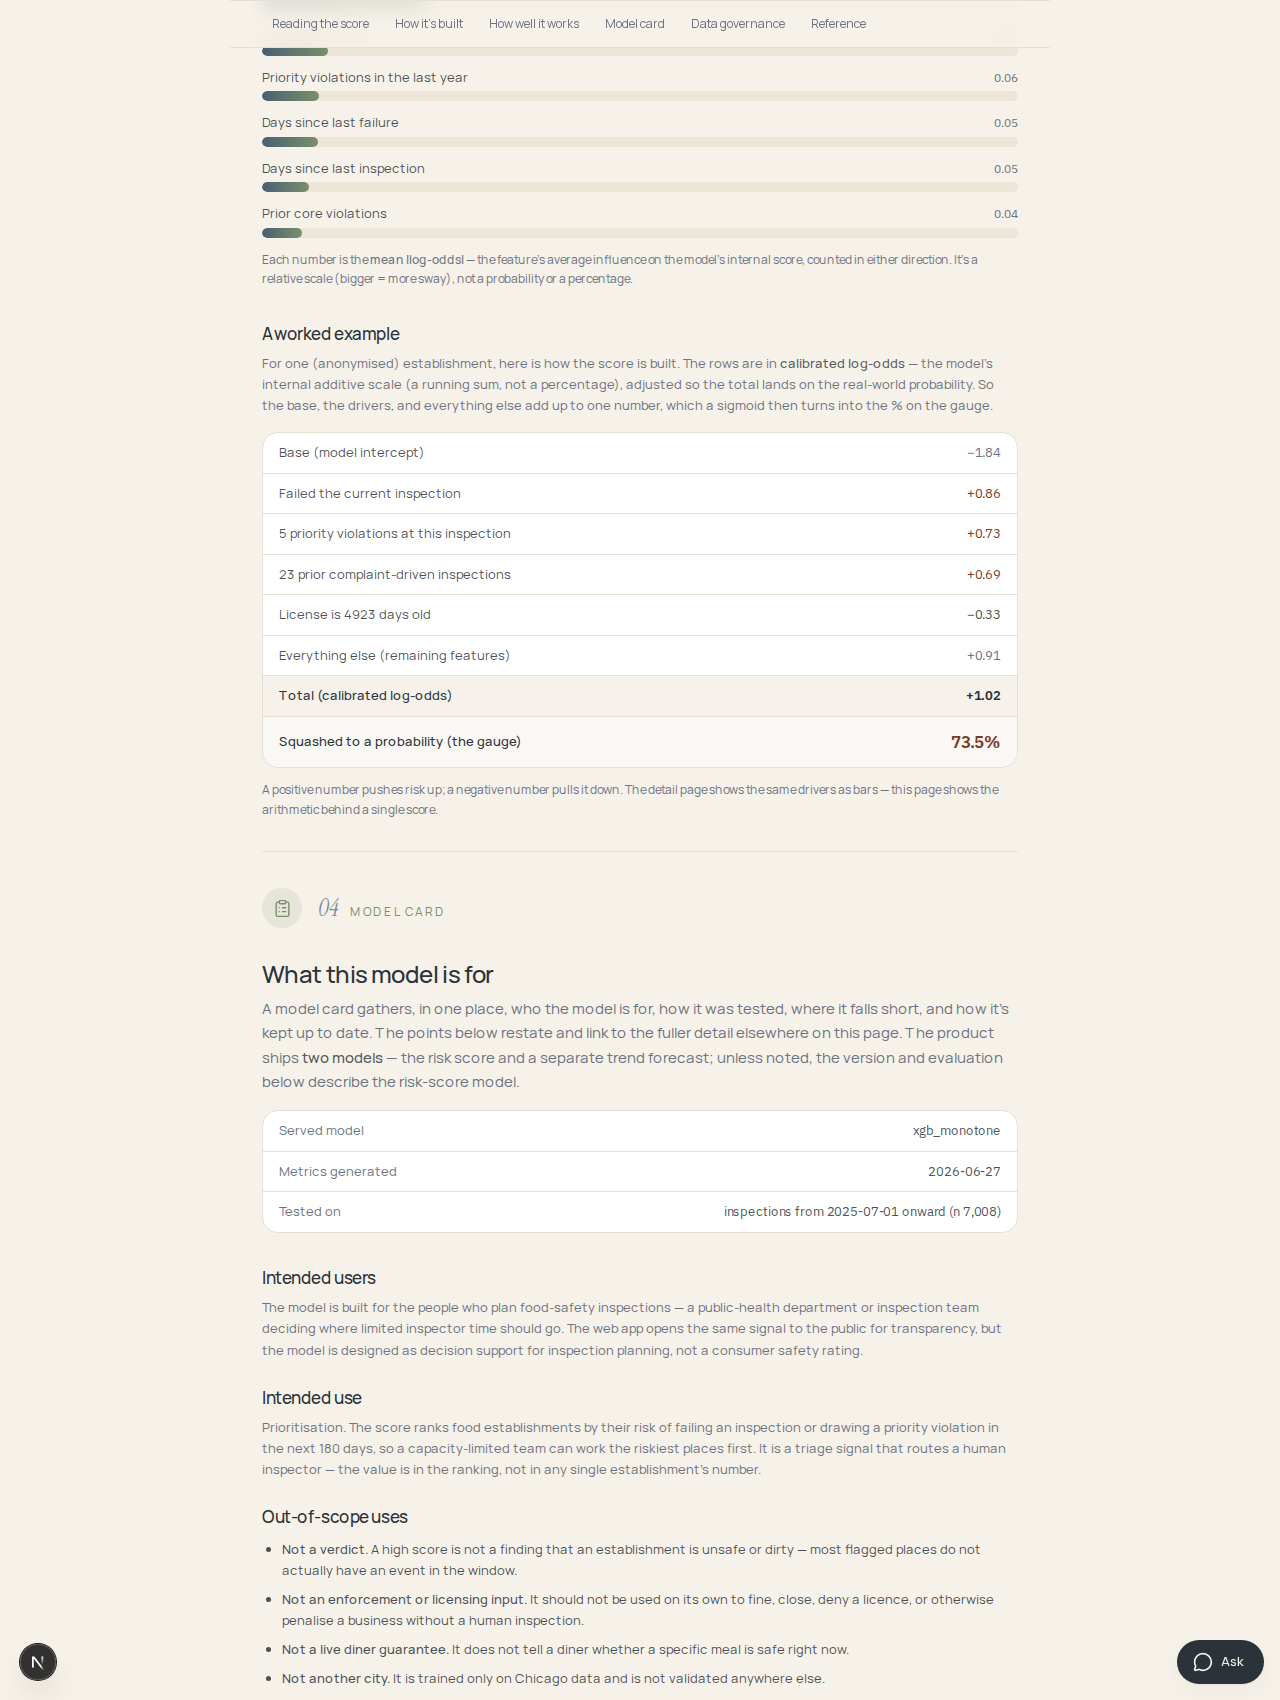
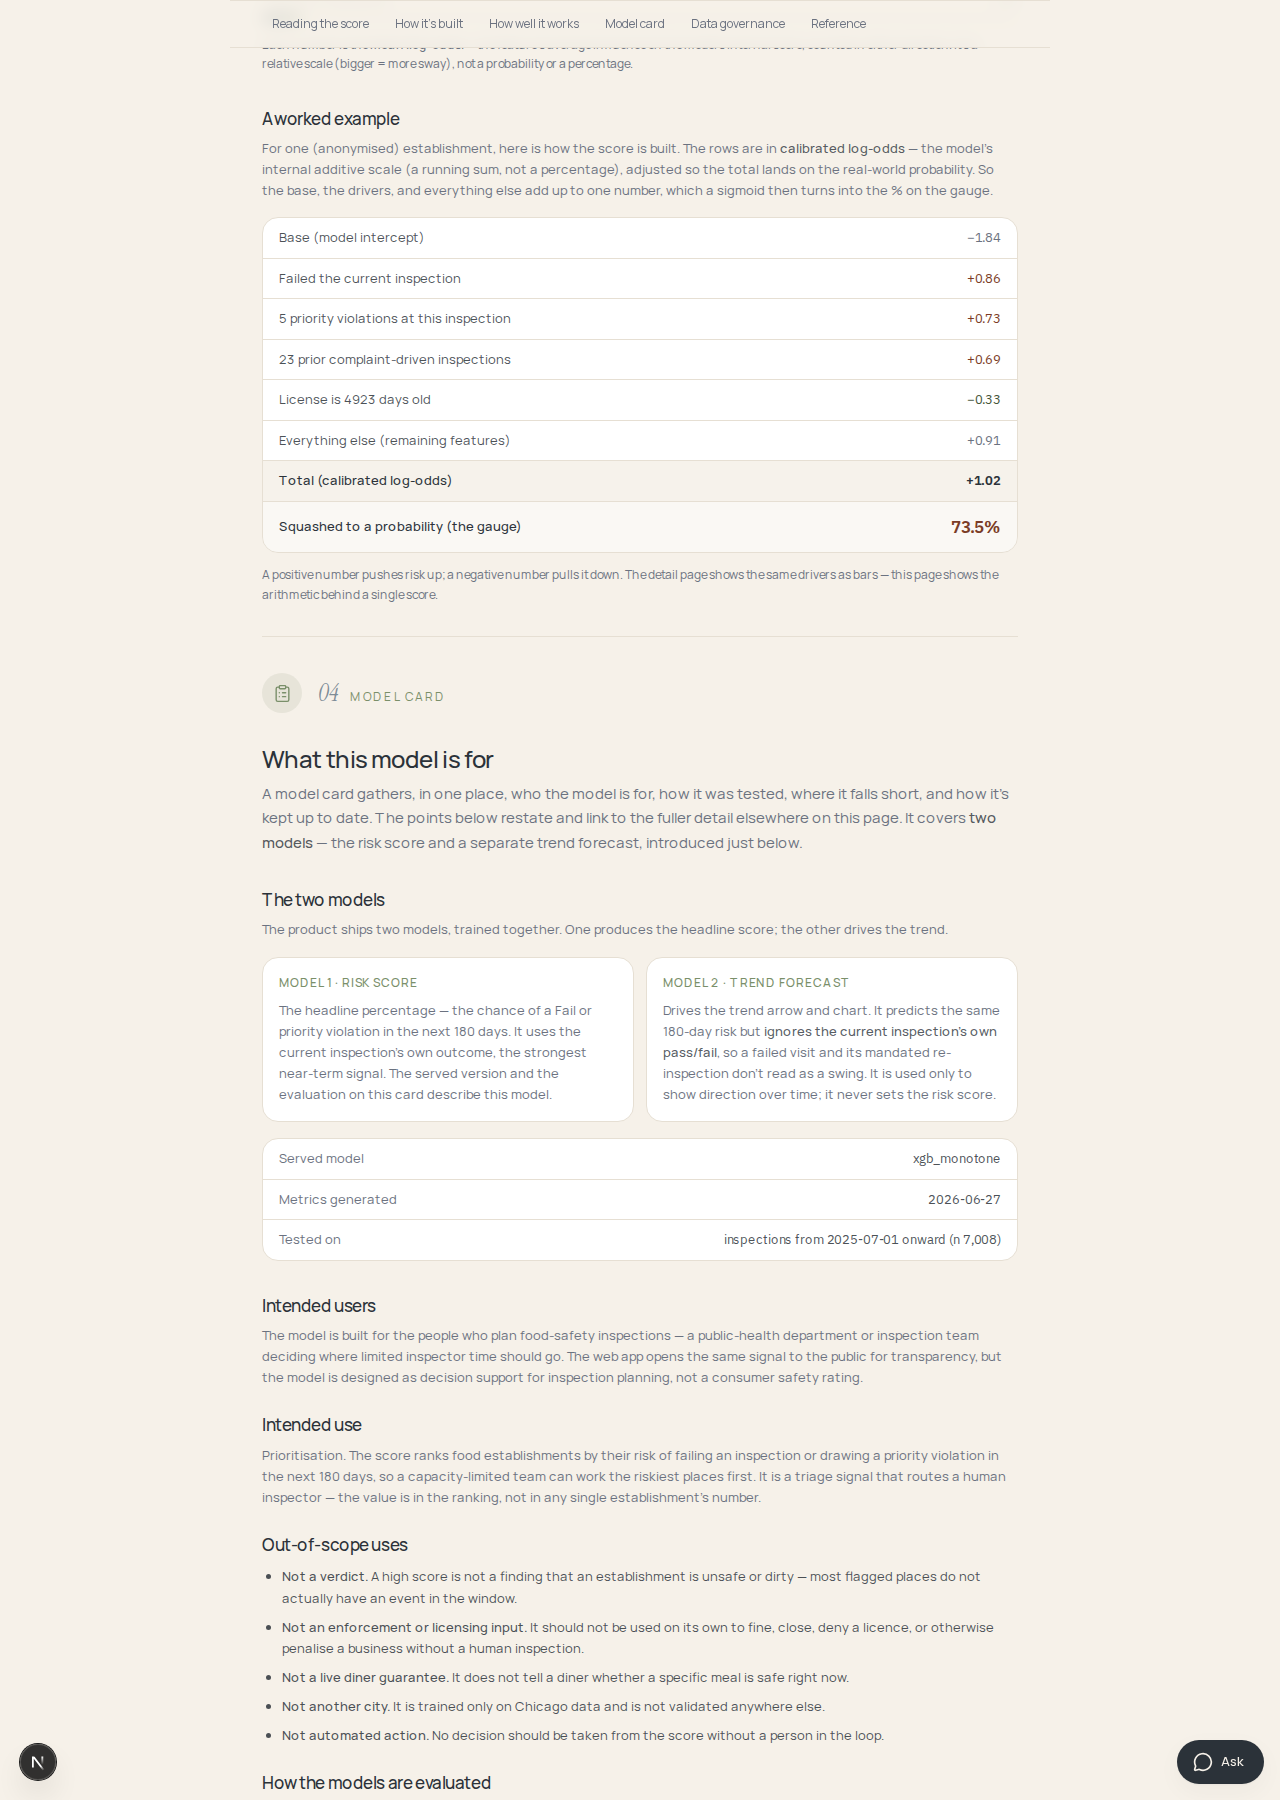
refactor(app): restructure the Model card around the two models
Reorganize the Model card so the two models are distinguished up front
instead of scattered through the fields:

- Add a "The two models" block — two side-by-side cards (Model 1 ·
  Risk score / Model 2 · Trend forecast) that state each model's role,
  what it predicts, and what it uses. The distinction is now visible at
  a glance, and on mobile the cards stack.
- Fold the old standalone "The trend forecast model" subsection and the
  "Evaluation methodology" subsection into one "How the models are
  evaluated" section with a paragraph per model, so identity lives in
  the cards and evaluation lives in one place (no duplication).
- Note in the retraining policy that both models are retrained together.

Refresh the Model card screenshots and drop the now-stale trend-forecast
subsection captures.

diff --git a/app/src/app/how-it-works/page.tsx b/app/src/app/how-it-works/page.tsx
@@ -770,10 +770,45 @@ export default async function HowItWorksPage() {
               A model card gathers, in one place, who the model is for, how it was
               tested, where it falls short, and how it&apos;s kept up to date. The
               points below restate and link to the fuller detail elsewhere on this
-              page. The product ships <span className="font-medium text-ink/80">two
-              models</span> — the risk score and a separate trend forecast; unless
-              noted, the version and evaluation below describe the risk-score model.
+              page. It covers <span className="font-medium text-ink/80">two
+              models</span> — the risk score and a separate trend forecast,
+              introduced just below.
             </p>
+
+            <h3 className="text-lg font-medium tracking-tight mt-8">
+              The two models
+            </h3>
+            <p className="text-sm text-muted leading-relaxed mt-1.5">
+              The product ships two models, trained together. One produces the
+              headline score; the other drives the trend.
+            </p>
+            <div className="mt-4 grid gap-3 sm:grid-cols-2">
+              <div className="rounded-2xl border border-line bg-card p-4">
+                <p className="text-xs uppercase tracking-[0.08em] text-sage font-medium">
+                  Model 1 · Risk score
+                </p>
+                <p className="text-sm text-muted leading-relaxed mt-2">
+                  The headline percentage — the chance of a Fail or priority
+                  violation in the next 180 days. It uses the current
+                  inspection&apos;s own outcome, the strongest near-term signal. The
+                  served version and the evaluation on this card describe this
+                  model.
+                </p>
+              </div>
+              <div className="rounded-2xl border border-line bg-card p-4">
+                <p className="text-xs uppercase tracking-[0.08em] text-sage font-medium">
+                  Model 2 · Trend forecast
+                </p>
+                <p className="text-sm text-muted leading-relaxed mt-2">
+                  Drives the trend arrow and chart. It predicts the same 180-day
+                  risk but <span className="font-medium text-ink/80">ignores the
+                  current inspection&apos;s own pass/fail</span>, so a failed visit
+                  and its mandated re-inspection don&apos;t read as a swing. It is
+                  used only to show direction over time; it never sets the risk
+                  score.
+                </p>
+              </div>
+            </div>
 
             {/* Provenance strip — served model + when its metrics were built +
                 the test window, read straight from methodology.json so this card
@@ -857,10 +892,11 @@ export default async function HowItWorksPage() {
             </ul>
 
             <h3 className="text-lg font-medium tracking-tight mt-6">
-              Evaluation methodology
+              How the models are evaluated
             </h3>
             <p className="text-sm text-muted leading-relaxed mt-1.5">
-              Measured on a time-held-out test set, never a random shuffle: the
+              The <span className="font-medium text-ink/80">risk score</span> is
+              measured on a time-held-out test set, never a random shuffle: the
               model is trained on the earliest inspections, calibrated on a later
               held-out slice, and tested on the most recent window ({testFrom ||
               "2025-07-01"} onward) — with every feature computed only from data
@@ -877,35 +913,21 @@ export default async function HowItWorksPage() {
               .
             </p>
 
-            <h3 className="text-lg font-medium tracking-tight mt-6">
-              The trend forecast model
-            </h3>
-            <p className="text-sm text-muted leading-relaxed mt-1.5">
-              The risk score is not the only model. The arrow and chart labelled{" "}
-              <span className="font-medium text-ink/80">trend</span> are driven by a
-              second model — a forecast that predicts the same 180-day risk but{" "}
-              <span className="font-medium text-ink/80">ignores the current
-              inspection&apos;s own pass/fail</span>, so a failed visit and its
-              mandated re-inspection don&apos;t read as a swing in either direction.
-              It is used only to draw the trajectory across an establishment&apos;s
-              recent inspections; it never sets the risk score. How it reads on the
-              page is covered under{" "}
+            <p className="text-sm text-muted leading-relaxed mt-2">
+              The <span className="font-medium text-ink/80">trend forecast</span> is
+              judged differently — as direction over time, not a second risk number.
+              We publish it for coverage and transparency, but the loose{" "}
+              <span className="font-medium text-ink/80">improving / worsening /
+              stable</span> direction is descriptive: on its own it barely beats
+              chance. Only a strict slice — steeply rising{" "}
+              <span className="font-medium text-ink/80">and</span> currently clean —
+              carries a real forward signal, and that slice is treated as an
+              early-warning watch-list, never a verdict. How it reads on the page is
+              under{" "}
               <a href="#recent-trend" className="text-teal hover:underline">
                 The recent trend
               </a>
               .
-            </p>
-            <p className="text-sm text-muted leading-relaxed mt-2">
-              Its honesty bar is different from the score model&apos;s. We publish
-              the trend for <span className="font-medium text-ink/80">coverage and
-              transparency</span> — a real, forward-looking trajectory for most
-              establishments with a repeat inspection — but the loose{" "}
-              <span className="font-medium text-ink/80">improving / worsening /
-              stable</span> direction is descriptive, not a prediction: on its own
-              it barely beats chance. Only a strict slice — steeply rising{" "}
-              <span className="font-medium text-ink/80">and</span> currently clean —
-              carries a real forward signal, and that slice is treated as an
-              early-warning watch-list, never as a verdict.
             </p>
 
             <h3 className="text-lg font-medium tracking-tight mt-6">
@@ -959,9 +981,9 @@ export default async function HowItWorksPage() {
               Retraining policy
             </h3>
             <p className="text-sm text-muted leading-relaxed mt-1.5">
-              The model is retrained on demand — when new data or a feature change
-              warrants it — not on a fixed automatic schedule; there is no live or
-              streaming update. Each training run is tied to the exact code that
+              Both models are retrained together, on demand — when new data or a
+              feature change warrants it — not on a fixed automatic schedule; there
+              is no live or streaming update. Each training run is tied to the exact code that
               produced it (its commit is recorded with the run), and a retrained
               model replaces the served one only after it clears the promotion gate
               on the held-out test set. Saved model files are versioned and never
